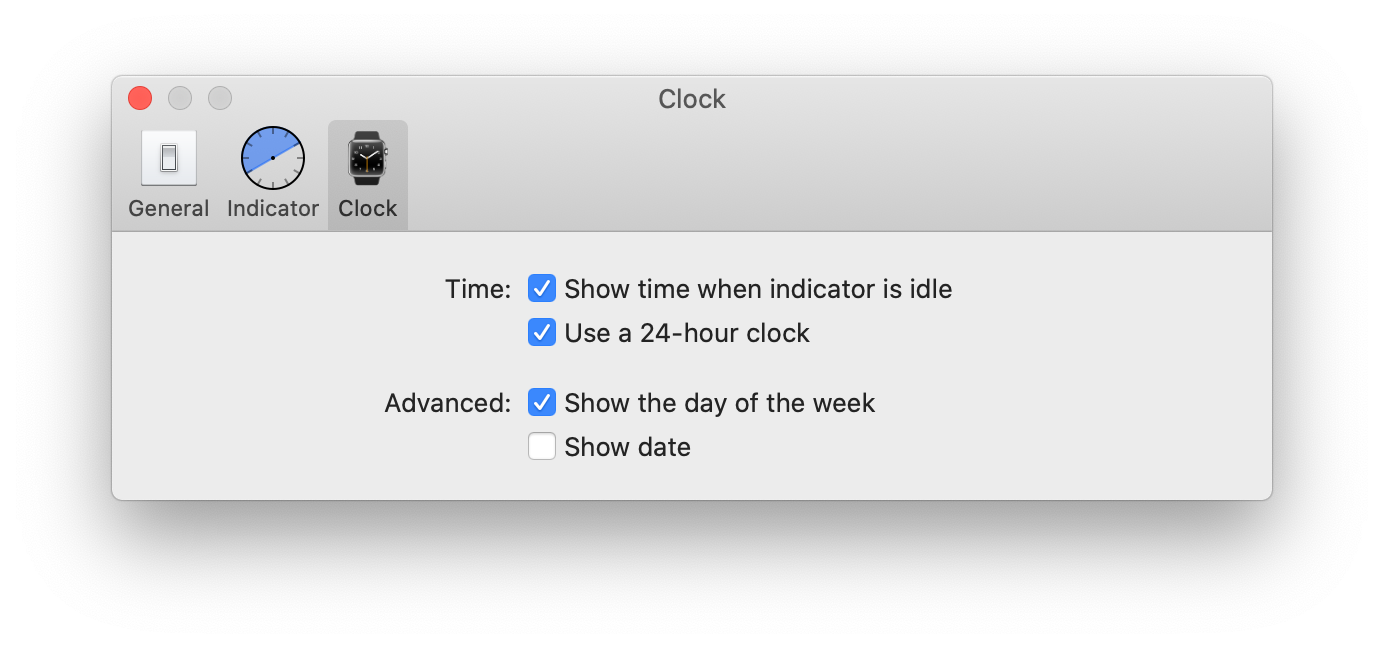
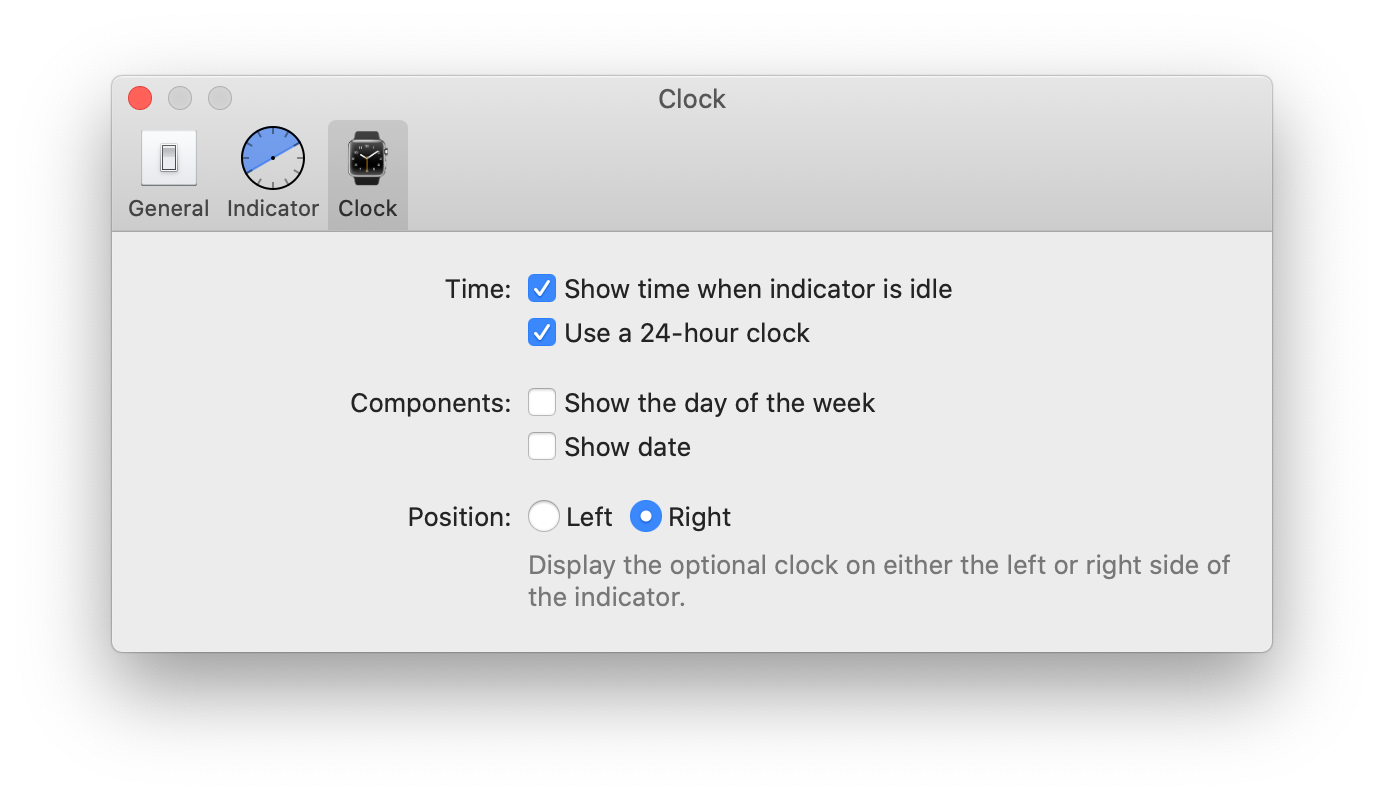
Update Timeless' screenshots and features

Changed region(s): [[0.0621, 0.0926, 0.9321, 0.8642]]

diff --git a/timeless.html b/timeless.html
@@ -180,6 +180,11 @@ gumroad:
                 <td class="features-table__cell table-cell table-cell--check">✓</td>
               </tr>
               <tr>
+                <td class="features-table__cell table-cell table-cell--title"><p>Choose optional clock's position.<br><small>Left or right (default) of indicator.</small></p></td>
+                <td class="features-table__cell table-cell table-cell--cross">⨯</td>
+                <td class="features-table__cell table-cell table-cell--check">✓</td>
+              </tr>
+              <tr>
                 <td class="features-table__cell table-cell table-cell--title"><p>Connect last and first time entries<br><small>on consecutive, enabled days.</small></p></td>
                 <td class="features-table__cell table-cell table-cell--cross">⨯</td>
                 <td class="features-table__cell table-cell table-cell--check">✓</td>
